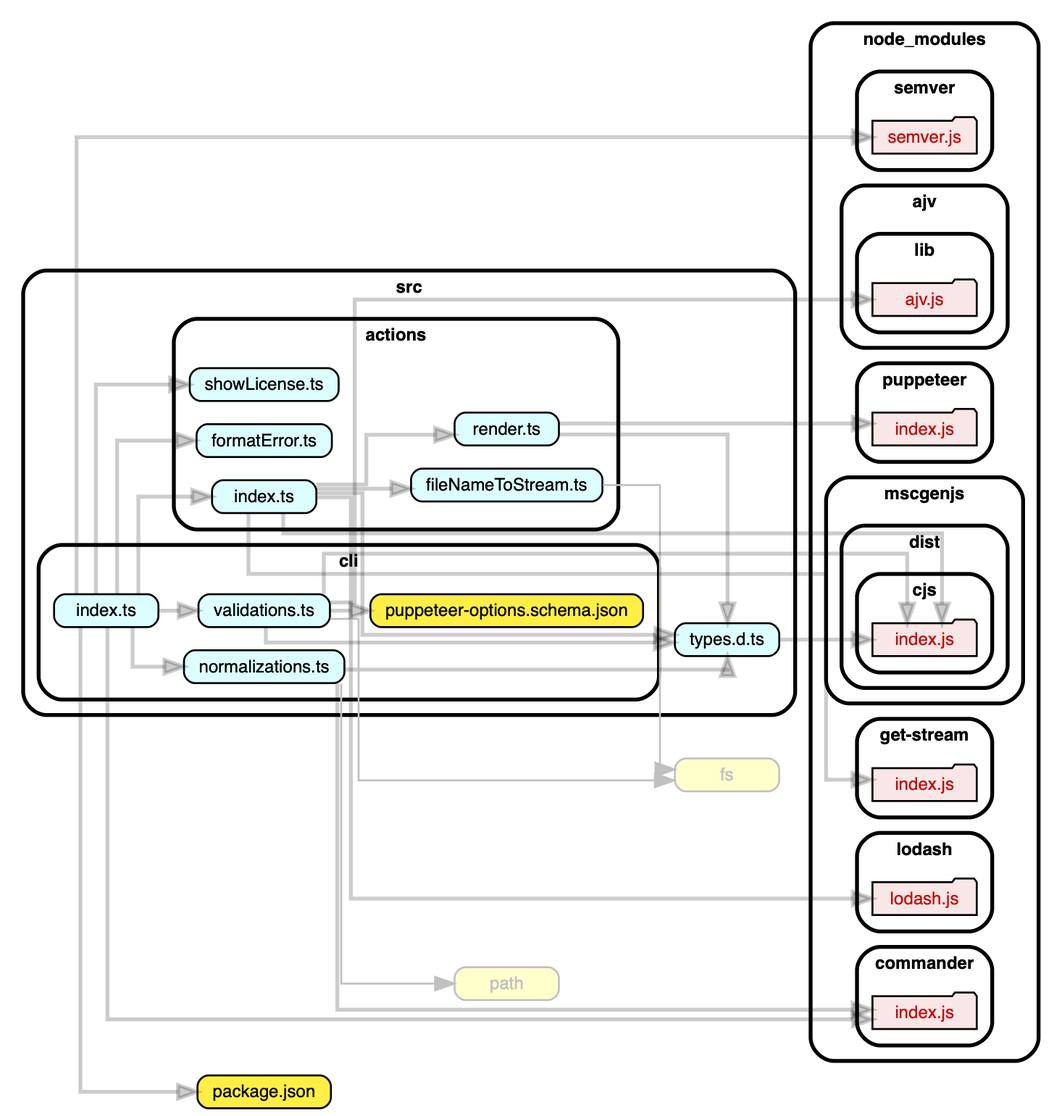
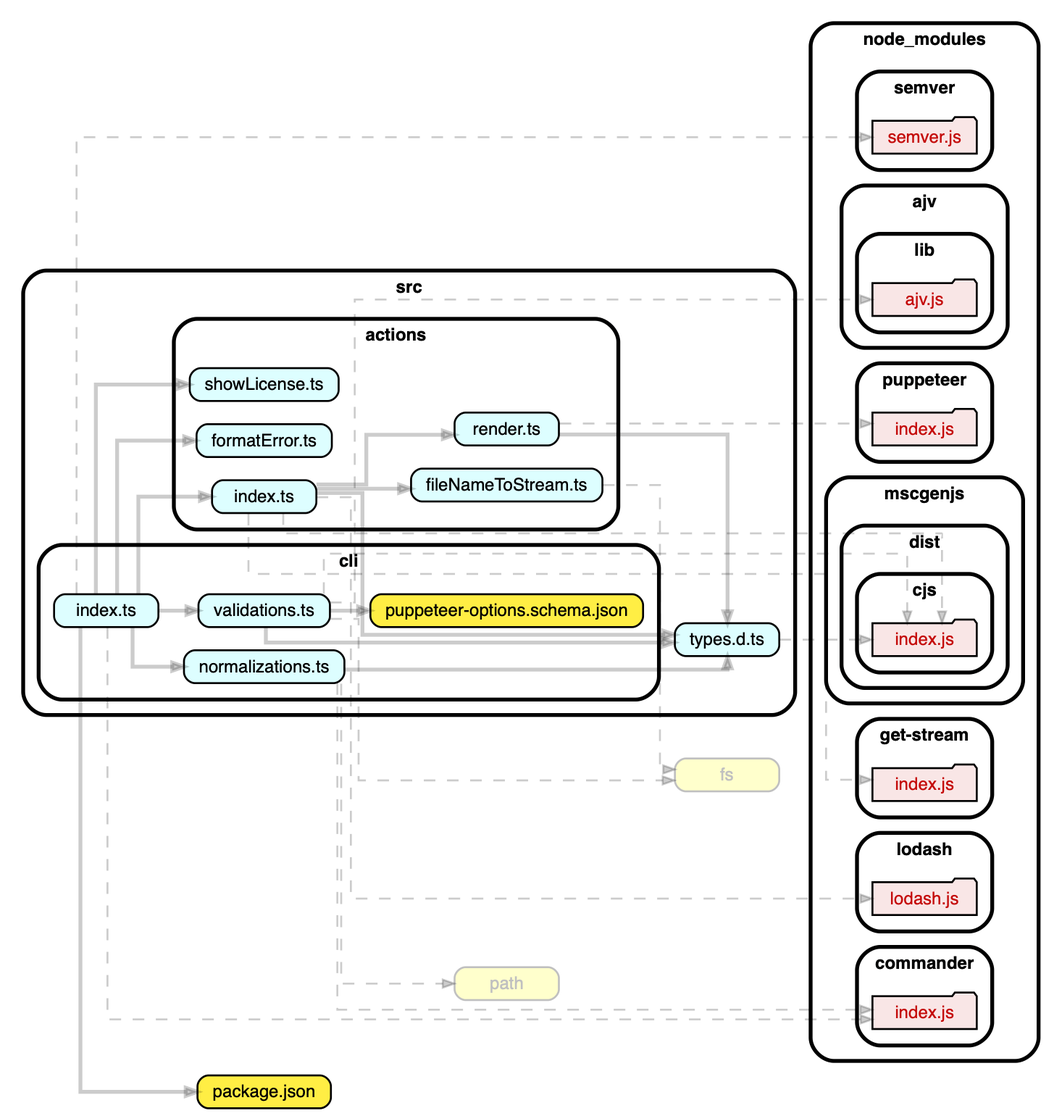
3.0.8

diff --git a/docs/dependencygraph.html b/docs/dependencygraph.html
@@ -47,6 +47,16 @@
 <path fill="#ffffff" stroke="black" stroke-width="2" d="M427.63,-24.5C427.63,-24.5 521.63,-24.5 521.63,-24.5 527.63,-24.5 533.63,-30.5 533.63,-36.5 533.63,-36.5 533.63,-549.5 533.63,-549.5 533.63,-555.5 527.63,-561.5 521.63,-561.5 521.63,-561.5 427.63,-561.5 427.63,-561.5 421.63,-561.5 415.63,-555.5 415.63,-549.5 415.63,-549.5 415.63,-36.5 415.63,-36.5 415.63,-30.5 421.63,-24.5 427.63,-24.5"/>
 <text text-anchor="middle" x="474.63" y="-550.3" font-family="Helvetica,sans-Serif" font-weight="bold" font-size="9.00">node_modules</text>
 </g>
+<g id="clust10" class="cluster">
+<title>cluster_node_modules/puppeteer</title>
+<path fill="#ffffff" stroke="black" stroke-width="2" d="M451.63,-334.5C451.63,-334.5 497.63,-334.5 497.63,-334.5 503.63,-334.5 509.63,-340.5 509.63,-346.5 509.63,-346.5 509.63,-373.5 509.63,-373.5 509.63,-379.5 503.63,-385.5 497.63,-385.5 497.63,-385.5 451.63,-385.5 451.63,-385.5 445.63,-385.5 439.63,-379.5 439.63,-373.5 439.63,-373.5 439.63,-346.5 439.63,-346.5 439.63,-340.5 445.63,-334.5 451.63,-334.5"/>
+<text text-anchor="middle" x="474.63" y="-374.3" font-family="Helvetica,sans-Serif" font-weight="bold" font-size="9.00">puppeteer</text>
+</g>
+<g id="clust11" class="cluster">
+<title>cluster_node_modules/semver</title>
+<path fill="#ffffff" stroke="black" stroke-width="2" d="M451.62,-485.5C451.62,-485.5 497.63,-485.5 497.63,-485.5 503.63,-485.5 509.63,-491.5 509.63,-497.5 509.63,-497.5 509.63,-524.5 509.63,-524.5 509.63,-530.5 503.63,-536.5 497.63,-536.5 497.63,-536.5 451.62,-536.5 451.62,-536.5 445.62,-536.5 439.62,-530.5 439.62,-524.5 439.62,-524.5 439.62,-497.5 439.62,-497.5 439.62,-491.5 445.62,-485.5 451.62,-485.5"/>
+<text text-anchor="middle" x="474.63" y="-525.3" font-family="Helvetica,sans-Serif" font-weight="bold" font-size="9.00">semver</text>
+</g>
 <g id="clust2" class="cluster">
 <title>cluster_node_modules/ajv</title>
 <path fill="#ffffff" stroke="black" stroke-width="2" d="M443.63,-393.5C443.63,-393.5 505.63,-393.5 505.63,-393.5 511.63,-393.5 517.63,-399.5 517.63,-405.5 517.63,-405.5 517.63,-465.5 517.63,-465.5 517.63,-471.5 511.63,-477.5 505.63,-477.5 505.63,-477.5 443.63,-477.5 443.63,-477.5 437.63,-477.5 431.63,-471.5 431.63,-465.5 431.63,-465.5 431.63,-405.5 431.63,-405.5 431.63,-399.5 437.63,-393.5 443.63,-393.5"/>
@@ -86,16 +96,6 @@
 <title>cluster_node_modules/mscgenjs/dist/cjs</title>
 <path fill="#ffffff" stroke="black" stroke-width="2" d="M451.63,-225.5C451.63,-225.5 497.63,-225.5 497.63,-225.5 503.63,-225.5 509.63,-231.5 509.63,-237.5 509.63,-237.5 509.63,-264.5 509.63,-264.5 509.63,-270.5 503.63,-276.5 497.63,-276.5 497.63,-276.5 451.63,-276.5 451.63,-276.5 445.63,-276.5 439.63,-270.5 439.63,-264.5 439.63,-264.5 439.63,-237.5 439.63,-237.5 439.63,-231.5 445.63,-225.5 451.63,-225.5"/>
 <text text-anchor="middle" x="474.63" y="-265.3" font-family="Helvetica,sans-Serif" font-weight="bold" font-size="9.00">cjs</text>
-</g>
-<g id="clust10" class="cluster">
-<title>cluster_node_modules/puppeteer</title>
-<path fill="#ffffff" stroke="black" stroke-width="2" d="M451.63,-334.5C451.63,-334.5 497.63,-334.5 497.63,-334.5 503.63,-334.5 509.63,-340.5 509.63,-346.5 509.63,-346.5 509.63,-373.5 509.63,-373.5 509.63,-379.5 503.63,-385.5 497.63,-385.5 497.63,-385.5 451.63,-385.5 451.63,-385.5 445.63,-385.5 439.63,-379.5 439.63,-373.5 439.63,-373.5 439.63,-346.5 439.63,-346.5 439.63,-340.5 445.63,-334.5 451.63,-334.5"/>
-<text text-anchor="middle" x="474.63" y="-374.3" font-family="Helvetica,sans-Serif" font-weight="bold" font-size="9.00">puppeteer</text>
-</g>
-<g id="clust11" class="cluster">
-<title>cluster_node_modules/semver</title>
-<path fill="#ffffff" stroke="black" stroke-width="2" d="M451.62,-485.5C451.62,-485.5 497.63,-485.5 497.63,-485.5 503.63,-485.5 509.63,-491.5 509.63,-497.5 509.63,-497.5 509.63,-524.5 509.63,-524.5 509.63,-530.5 503.63,-536.5 497.63,-536.5 497.63,-536.5 451.62,-536.5 451.62,-536.5 445.62,-536.5 439.62,-530.5 439.62,-524.5 439.62,-524.5 439.62,-497.5 439.62,-497.5 439.62,-491.5 445.62,-485.5 451.62,-485.5"/>
-<text text-anchor="middle" x="474.63" y="-525.3" font-family="Helvetica,sans-Serif" font-weight="bold" font-size="9.00">semver</text>
 </g>
 <g id="clust12" class="cluster">
 <title>cluster_src</title>
@@ -208,8 +208,8 @@
 <!-- src/actions/fileNameToStream.ts&#45;&gt;fs -->
 <g id="edge1" class="edge">
 <title>src/actions/fileNameToStream.ts&#45;&gt;fs</title>
-<path fill="none" stroke="grey" d="M308.09,-322.5C324.03,-322.5 337.63,-322.5 337.63,-322.5 337.63,-322.5 337.63,-175.33 337.63,-175.33 337.63,-175.33 338.4,-175.33 338.4,-175.33"/>
-<polygon fill="grey" stroke="grey" points="335.34,-178.83 345.34,-175.33 335.34,-171.83 335.34,-178.83"/>
+<path fill="none" stroke="#000000" stroke-dasharray="5,2" stroke-opacity="0.200000" d="M308.09,-322.5C324.03,-322.5 337.63,-322.5 337.63,-322.5 337.63,-322.5 337.63,-175.33 337.63,-175.33 337.63,-175.33 339.34,-175.33 339.34,-175.33"/>
+<polygon fill="#000000" fill-opacity="0.200000" stroke="#000000" stroke-opacity="0.200000" points="339.34,-177.43 345.34,-175.33 339.34,-173.23 339.34,-177.43"/>
 </g>
 <!-- src/actions/formatError.ts -->
 <g id="node12" class="node">
@@ -232,26 +232,26 @@
 <!-- src/actions/index.ts&#45;&gt;node_modules/get&#45;stream/index.js -->
 <g id="edge5" class="edge">
 <title>src/actions/index.ts&#45;&gt;node_modules/get&#45;stream/index.js</title>
-<path fill="none" stroke="#000000" stroke-width="2" stroke-opacity="0.200000" d="M124.63,-307.62C124.63,-295.84 124.63,-276.5 124.63,-276.5 124.63,-276.5 423.63,-276.5 423.63,-276.5 423.63,-276.5 423.63,-170 423.63,-170 423.63,-170 437.33,-170 437.33,-170"/>
-<polygon fill="#000000" fill-opacity="0.200000" stroke="#000000" stroke-width="2" stroke-opacity="0.200000" points="437.33,-173.5 447.33,-170 437.33,-166.5 437.33,-173.5"/>
+<path fill="none" stroke="#000000" stroke-dasharray="5,2" stroke-opacity="0.200000" d="M124.63,-307.62C124.63,-295.84 124.63,-276.5 124.63,-276.5 124.63,-276.5 423.63,-276.5 423.63,-276.5 423.63,-276.5 423.63,-170 423.63,-170 423.63,-170 441.33,-170 441.33,-170"/>
+<polygon fill="#000000" fill-opacity="0.200000" stroke="#000000" stroke-opacity="0.200000" points="441.33,-172.1 447.33,-170 441.33,-167.9 441.33,-172.1"/>
 </g>
 <!-- src/actions/index.ts&#45;&gt;node_modules/lodash/lodash.js -->
 <g id="edge6" class="edge">
 <title>src/actions/index.ts&#45;&gt;node_modules/lodash/lodash.js</title>
-<path fill="none" stroke="#000000" stroke-width="2" stroke-opacity="0.200000" d="M159.9,-316.2C169.34,-316.2 177.63,-316.2 177.63,-316.2 177.63,-316.2 177.63,-108.5 177.63,-108.5 177.63,-108.5 437.48,-108.5 437.48,-108.5"/>
-<polygon fill="#000000" fill-opacity="0.200000" stroke="#000000" stroke-width="2" stroke-opacity="0.200000" points="437.48,-112 447.48,-108.5 437.48,-105 437.48,-112"/>
+<path fill="none" stroke="#000000" stroke-dasharray="5,2" stroke-opacity="0.200000" d="M159.9,-316.2C169.34,-316.2 177.63,-316.2 177.63,-316.2 177.63,-316.2 177.63,-108.5 177.63,-108.5 177.63,-108.5 441.48,-108.5 441.48,-108.5"/>
+<polygon fill="#000000" fill-opacity="0.200000" stroke="#000000" stroke-opacity="0.200000" points="441.48,-110.6 447.48,-108.5 441.48,-106.4 441.48,-110.6"/>
 </g>
 <!-- src/actions/index.ts&#45;&gt;node_modules/mscgenjs/dist/cjs/index.js -->
 <g id="edge7" class="edge">
 <title>src/actions/index.ts&#45;&gt;node_modules/mscgenjs/dist/cjs/index.js</title>
-<path fill="none" stroke="#000000" stroke-width="2" stroke-opacity="0.200000" d="M142.63,-307.89C142.63,-302.86 142.63,-297.5 142.63,-297.5 142.63,-297.5 483.63,-297.5 483.63,-297.5 483.63,-297.5 483.63,-261.09 483.63,-261.09"/>
-<polygon fill="#000000" fill-opacity="0.200000" stroke="#000000" stroke-width="2" stroke-opacity="0.200000" points="487.13,-261.09 483.63,-251.09 480.13,-261.09 487.13,-261.09"/>
+<path fill="none" stroke="#000000" stroke-dasharray="5,2" stroke-opacity="0.200000" d="M142.63,-307.89C142.63,-302.86 142.63,-297.5 142.63,-297.5 142.63,-297.5 483.63,-297.5 483.63,-297.5 483.63,-297.5 483.63,-257.09 483.63,-257.09"/>
+<polygon fill="#000000" fill-opacity="0.200000" stroke="#000000" stroke-opacity="0.200000" points="485.73,-257.09 483.63,-251.09 481.53,-257.09 485.73,-257.09"/>
 </g>
 <!-- src/actions/index.ts&#45;&gt;src/actions/fileNameToStream.ts -->
 <g id="edge3" class="edge">
 <title>src/actions/index.ts&#45;&gt;src/actions/fileNameToStream.ts</title>
-<path fill="none" stroke="#000000" stroke-width="2" stroke-opacity="0.200000" d="M160.01,-320.6C160.01,-320.6 198.61,-320.6 198.61,-320.6"/>
-<polygon fill="#000000" fill-opacity="0.200000" stroke="#000000" stroke-width="2" stroke-opacity="0.200000" points="198.61,-324.1 208.61,-320.6 198.61,-317.1 198.61,-324.1"/>
+<path fill="none" stroke="#000000" stroke-width="2" stroke-opacity="0.200000" d="M160.01,-320.6C160.01,-320.6 202.61,-320.6 202.61,-320.6"/>
+<polygon fill="#000000" fill-opacity="0.200000" stroke="#000000" stroke-width="2" stroke-opacity="0.200000" points="202.61,-322.7 208.61,-320.6 202.61,-318.5 202.61,-322.7"/>
 </g>
 <!-- src/actions/render.ts -->
 <g id="node14" class="node">
@@ -265,8 +265,8 @@
 <!-- src/actions/index.ts&#45;&gt;src/actions/render.ts -->
 <g id="edge4" class="edge">
 <title>src/actions/index.ts&#45;&gt;src/actions/render.ts</title>
-<path fill="none" stroke="#000000" stroke-width="2" stroke-opacity="0.200000" d="M159.82,-322.8C172.82,-322.8 185.63,-322.8 185.63,-322.8 185.63,-322.8 185.63,-348.5 185.63,-348.5 185.63,-348.5 221.25,-348.5 221.25,-348.5"/>
-<polygon fill="#000000" fill-opacity="0.200000" stroke="#000000" stroke-width="2" stroke-opacity="0.200000" points="221.25,-352 231.25,-348.5 221.25,-345 221.25,-352"/>
+<path fill="none" stroke="#000000" stroke-width="2" stroke-opacity="0.200000" d="M159.82,-322.8C172.82,-322.8 185.63,-322.8 185.63,-322.8 185.63,-322.8 185.63,-348.5 185.63,-348.5 185.63,-348.5 225.25,-348.5 225.25,-348.5"/>
+<polygon fill="#000000" fill-opacity="0.200000" stroke="#000000" stroke-width="2" stroke-opacity="0.200000" points="225.25,-350.6 231.25,-348.5 225.25,-346.4 225.25,-350.6"/>
 </g>
 <!-- src/types.d.ts -->
 <g id="node20" class="node">
@@ -280,20 +280,20 @@
 <!-- src/actions/index.ts&#45;&gt;src/types.d.ts -->
 <g id="edge2" class="edge">
 <title>src/actions/index.ts&#45;&gt;src/types.d.ts</title>
-<path fill="none" stroke="#000000" stroke-width="2" stroke-opacity="0.200000" d="M159.98,-318.4C172.07,-318.4 183.63,-318.4 183.63,-318.4 183.63,-318.4 183.63,-245 183.63,-245 183.63,-245 335.32,-245 335.32,-245"/>
-<polygon fill="#000000" fill-opacity="0.200000" stroke="#000000" stroke-width="2" stroke-opacity="0.200000" points="335.32,-248.5 345.32,-245 335.32,-241.5 335.32,-248.5"/>
+<path fill="none" stroke="#000000" stroke-width="2" stroke-opacity="0.200000" d="M159.98,-318.4C172.07,-318.4 183.63,-318.4 183.63,-318.4 183.63,-318.4 183.63,-245 183.63,-245 183.63,-245 339.32,-245 339.32,-245"/>
+<polygon fill="#000000" fill-opacity="0.200000" stroke="#000000" stroke-width="2" stroke-opacity="0.200000" points="339.32,-247.1 345.32,-245 339.32,-242.9 339.32,-247.1"/>
 </g>
 <!-- src/actions/render.ts&#45;&gt;node_modules/puppeteer/index.js -->
 <g id="edge9" class="edge">
 <title>src/actions/render.ts&#45;&gt;node_modules/puppeteer/index.js</title>
-<path fill="none" stroke="#000000" stroke-width="2" stroke-opacity="0.200000" d="M285.71,-354.33C285.71,-354.33 437.45,-354.33 437.45,-354.33"/>
-<polygon fill="#000000" fill-opacity="0.200000" stroke="#000000" stroke-width="2" stroke-opacity="0.200000" points="437.45,-357.83 447.45,-354.33 437.45,-350.83 437.45,-357.83"/>
+<path fill="none" stroke="#000000" stroke-dasharray="5,2" stroke-opacity="0.200000" d="M285.71,-354.33C285.71,-354.33 441.45,-354.33 441.45,-354.33"/>
+<polygon fill="#000000" fill-opacity="0.200000" stroke="#000000" stroke-opacity="0.200000" points="441.45,-356.43 447.45,-354.33 441.45,-352.23 441.45,-356.43"/>
 </g>
 <!-- src/actions/render.ts&#45;&gt;src/types.d.ts -->
 <g id="edge8" class="edge">
 <title>src/actions/render.ts&#45;&gt;src/types.d.ts</title>
-<path fill="none" stroke="#000000" stroke-width="2" stroke-opacity="0.200000" d="M285.41,-348.67C319.21,-348.67 372.63,-348.67 372.63,-348.67 372.63,-348.67 372.63,-261.19 372.63,-261.19"/>
-<polygon fill="#000000" fill-opacity="0.200000" stroke="#000000" stroke-width="2" stroke-opacity="0.200000" points="376.13,-261.19 372.63,-251.19 369.13,-261.19 376.13,-261.19"/>
+<path fill="none" stroke="#000000" stroke-width="2" stroke-opacity="0.200000" d="M285.41,-348.67C319.21,-348.67 372.63,-348.67 372.63,-348.67 372.63,-348.67 372.63,-257.19 372.63,-257.19"/>
+<polygon fill="#000000" fill-opacity="0.200000" stroke="#000000" stroke-width="2" stroke-opacity="0.200000" points="374.73,-257.19 372.63,-251.19 370.53,-257.19 374.73,-257.19"/>
 </g>
 <!-- src/actions/showLicense.ts -->
 <g id="node15" class="node">
@@ -316,38 +316,38 @@
 <!-- src/cli/index.ts&#45;&gt;node_modules/commander/index.js -->
 <g id="edge16" class="edge">
 <title>src/cli/index.ts&#45;&gt;node_modules/commander/index.js</title>
-<path fill="none" stroke="#000000" stroke-width="2" stroke-opacity="0.200000" d="M51.63,-248.95C51.63,-209.38 51.63,-46 51.63,-46 51.63,-46 437.52,-46 437.52,-46"/>
-<polygon fill="#000000" fill-opacity="0.200000" stroke="#000000" stroke-width="2" stroke-opacity="0.200000" points="437.52,-49.5 447.52,-46 437.52,-42.5 437.52,-49.5"/>
+<path fill="none" stroke="#000000" stroke-dasharray="5,2" stroke-opacity="0.200000" d="M51.63,-248.95C51.63,-209.38 51.63,-46 51.63,-46 51.63,-46 441.52,-46 441.52,-46"/>
+<polygon fill="#000000" fill-opacity="0.200000" stroke="#000000" stroke-opacity="0.200000" points="441.52,-48.1 447.52,-46 441.52,-43.9 441.52,-48.1"/>
 </g>
 <!-- src/cli/index.ts&#45;&gt;node_modules/semver/semver.js -->
 <g id="edge17" class="edge">
 <title>src/cli/index.ts&#45;&gt;node_modules/semver/semver.js</title>
-<path fill="none" stroke="#000000" stroke-width="2" stroke-opacity="0.200000" d="M35.63,-266.22C35.63,-309.86 35.63,-502.5 35.63,-502.5 35.63,-502.5 437.5,-502.5 437.5,-502.5"/>
-<polygon fill="#000000" fill-opacity="0.200000" stroke="#000000" stroke-width="2" stroke-opacity="0.200000" points="437.5,-506 447.5,-502.5 437.5,-499 437.5,-506"/>
+<path fill="none" stroke="#000000" stroke-dasharray="5,2" stroke-opacity="0.200000" d="M35.63,-266.22C35.63,-309.86 35.63,-502.5 35.63,-502.5 35.63,-502.5 441.5,-502.5 441.5,-502.5"/>
+<polygon fill="#000000" fill-opacity="0.200000" stroke="#000000" stroke-opacity="0.200000" points="441.5,-504.6 447.5,-502.5 441.5,-500.4 441.5,-504.6"/>
 </g>
 <!-- src/cli/index.ts&#45;&gt;package.json -->
 <g id="edge10" class="edge">
 <title>src/cli/index.ts&#45;&gt;package.json</title>
-<path fill="none" stroke="#000000" stroke-width="2" stroke-opacity="0.200000" d="M37.63,-248.93C37.63,-205.14 37.63,-8.5 37.63,-8.5 37.63,-8.5 88.15,-8.5 88.15,-8.5"/>
-<polygon fill="#000000" fill-opacity="0.200000" stroke="#000000" stroke-width="2" stroke-opacity="0.200000" points="88.15,-12 98.15,-8.5 88.15,-5 88.15,-12"/>
+<path fill="none" stroke="#000000" stroke-width="2" stroke-opacity="0.200000" d="M37.63,-248.93C37.63,-205.14 37.63,-8.5 37.63,-8.5 37.63,-8.5 92.15,-8.5 92.15,-8.5"/>
+<polygon fill="#000000" fill-opacity="0.200000" stroke="#000000" stroke-width="2" stroke-opacity="0.200000" points="92.15,-10.6 98.15,-8.5 92.15,-6.4 92.15,-10.6"/>
 </g>
 <!-- src/cli/index.ts&#45;&gt;src/actions/formatError.ts -->
 <g id="edge12" class="edge">
 <title>src/cli/index.ts&#45;&gt;src/actions/formatError.ts</title>
-<path fill="none" stroke="#000000" stroke-width="2" stroke-opacity="0.200000" d="M56.63,-266.26C56.63,-288.52 56.63,-345.5 56.63,-345.5 56.63,-345.5 87.37,-345.5 87.37,-345.5"/>
-<polygon fill="#000000" fill-opacity="0.200000" stroke="#000000" stroke-width="2" stroke-opacity="0.200000" points="87.37,-349 97.37,-345.5 87.37,-342 87.37,-349"/>
+<path fill="none" stroke="#000000" stroke-width="2" stroke-opacity="0.200000" d="M56.63,-266.26C56.63,-288.52 56.63,-345.5 56.63,-345.5 56.63,-345.5 91.37,-345.5 91.37,-345.5"/>
+<polygon fill="#000000" fill-opacity="0.200000" stroke="#000000" stroke-width="2" stroke-opacity="0.200000" points="91.37,-347.6 97.37,-345.5 91.37,-343.4 91.37,-347.6"/>
 </g>
 <!-- src/cli/index.ts&#45;&gt;src/actions/index.ts -->
 <g id="edge11" class="edge">
 <title>src/cli/index.ts&#45;&gt;src/actions/index.ts</title>
-<path fill="none" stroke="#000000" stroke-width="2" stroke-opacity="0.200000" d="M67.63,-266.21C67.63,-282.62 67.63,-316.5 67.63,-316.5 67.63,-316.5 95.52,-316.5 95.52,-316.5"/>
-<polygon fill="#000000" fill-opacity="0.200000" stroke="#000000" stroke-width="2" stroke-opacity="0.200000" points="95.52,-320 105.52,-316.5 95.52,-313 95.52,-320"/>
+<path fill="none" stroke="#000000" stroke-width="2" stroke-opacity="0.200000" d="M67.63,-266.21C67.63,-282.62 67.63,-316.5 67.63,-316.5 67.63,-316.5 99.52,-316.5 99.52,-316.5"/>
+<polygon fill="#000000" fill-opacity="0.200000" stroke="#000000" stroke-width="2" stroke-opacity="0.200000" points="99.52,-318.6 105.52,-316.5 99.52,-314.4 99.52,-318.6"/>
 </g>
 <!-- src/cli/index.ts&#45;&gt;src/actions/showLicense.ts -->
 <g id="edge13" class="edge">
 <title>src/cli/index.ts&#45;&gt;src/actions/showLicense.ts</title>
-<path fill="none" stroke="#000000" stroke-width="2" stroke-opacity="0.200000" d="M45.63,-266.29C45.63,-293.5 45.63,-374.5 45.63,-374.5 45.63,-374.5 84.04,-374.5 84.04,-374.5"/>
-<polygon fill="#000000" fill-opacity="0.200000" stroke="#000000" stroke-width="2" stroke-opacity="0.200000" points="84.04,-378 94.04,-374.5 84.04,-371 84.04,-378"/>
+<path fill="none" stroke="#000000" stroke-width="2" stroke-opacity="0.200000" d="M45.63,-266.29C45.63,-293.5 45.63,-374.5 45.63,-374.5 45.63,-374.5 88.04,-374.5 88.04,-374.5"/>
+<polygon fill="#000000" fill-opacity="0.200000" stroke="#000000" stroke-width="2" stroke-opacity="0.200000" points="88.04,-376.6 94.04,-374.5 88.04,-372.4 88.04,-376.6"/>
 </g>
 <!-- src/cli/normalizations.ts -->
 <g id="node17" class="node">
@@ -361,8 +361,8 @@
 <!-- src/cli/index.ts&#45;&gt;src/cli/normalizations.ts -->
 <g id="edge14" class="edge">
 <title>src/cli/index.ts&#45;&gt;src/cli/normalizations.ts</title>
-<path fill="none" stroke="#000000" stroke-width="2" stroke-opacity="0.200000" d="M64.63,-248.96C64.63,-240.4 64.63,-228.5 64.63,-228.5 64.63,-228.5 81.17,-228.5 81.17,-228.5"/>
-<polygon fill="#000000" fill-opacity="0.200000" stroke="#000000" stroke-width="2" stroke-opacity="0.200000" points="81.17,-232 91.17,-228.5 81.17,-225 81.17,-232"/>
+<path fill="none" stroke="#000000" stroke-width="2" stroke-opacity="0.200000" d="M64.63,-248.96C64.63,-240.4 64.63,-228.5 64.63,-228.5 64.63,-228.5 85.17,-228.5 85.17,-228.5"/>
+<polygon fill="#000000" fill-opacity="0.200000" stroke="#000000" stroke-width="2" stroke-opacity="0.200000" points="85.17,-230.6 91.17,-228.5 85.17,-226.4 85.17,-230.6"/>
 </g>
 <!-- src/cli/validations.ts -->
 <g id="node19" class="node">
@@ -376,26 +376,26 @@
 <!-- src/cli/index.ts&#45;&gt;src/cli/validations.ts -->
 <g id="edge15" class="edge">
 <title>src/cli/index.ts&#45;&gt;src/cli/validations.ts</title>
-<path fill="none" stroke="#000000" stroke-width="2" stroke-opacity="0.200000" d="M78.23,-257.5C78.23,-257.5 88.53,-257.5 88.53,-257.5"/>
-<polygon fill="#000000" fill-opacity="0.200000" stroke="#000000" stroke-width="2" stroke-opacity="0.200000" points="88.53,-261 98.53,-257.5 88.53,-254 88.53,-261"/>
+<path fill="none" stroke="#000000" stroke-width="2" stroke-opacity="0.200000" d="M78.23,-257.5C78.23,-257.5 92.53,-257.5 92.53,-257.5"/>
+<polygon fill="#000000" fill-opacity="0.200000" stroke="#000000" stroke-width="2" stroke-opacity="0.200000" points="92.53,-259.6 98.53,-257.5 92.53,-255.4 92.53,-259.6"/>
 </g>
 <!-- src/cli/normalizations.ts&#45;&gt;node_modules/commander/index.js -->
 <g id="edge19" class="edge">
 <title>src/cli/normalizations.ts&#45;&gt;node_modules/commander/index.js</title>
-<path fill="none" stroke="#000000" stroke-width="2" stroke-opacity="0.200000" d="M170.63,-219.94C170.63,-184.48 170.63,-51 170.63,-51 170.63,-51 437.38,-51 437.38,-51"/>
-<polygon fill="#000000" fill-opacity="0.200000" stroke="#000000" stroke-width="2" stroke-opacity="0.200000" points="437.38,-54.5 447.38,-51 437.38,-47.5 437.38,-54.5"/>
+<path fill="none" stroke="#000000" stroke-dasharray="5,2" stroke-opacity="0.200000" d="M170.63,-219.94C170.63,-184.48 170.63,-51 170.63,-51 170.63,-51 441.38,-51 441.38,-51"/>
+<polygon fill="#000000" fill-opacity="0.200000" stroke="#000000" stroke-opacity="0.200000" points="441.38,-53.1 447.38,-51 441.38,-48.9 441.38,-53.1"/>
 </g>
 <!-- src/cli/normalizations.ts&#45;&gt;path -->
 <g id="edge20" class="edge">
 <title>src/cli/normalizations.ts&#45;&gt;path</title>
-<path fill="none" stroke="grey" d="M172.63,-219.68C172.63,-185.62 172.63,-64.5 172.63,-64.5 172.63,-64.5 221.2,-64.5 221.2,-64.5"/>
-<polygon fill="grey" stroke="grey" points="221.2,-68 231.2,-64.5 221.2,-61 221.2,-68"/>
+<path fill="none" stroke="#000000" stroke-dasharray="5,2" stroke-opacity="0.200000" d="M172.63,-219.68C172.63,-185.62 172.63,-64.5 172.63,-64.5 172.63,-64.5 225.2,-64.5 225.2,-64.5"/>
+<polygon fill="#000000" fill-opacity="0.200000" stroke="#000000" stroke-opacity="0.200000" points="225.2,-66.6 231.2,-64.5 225.2,-62.4 225.2,-66.6"/>
 </g>
 <!-- src/cli/normalizations.ts&#45;&gt;src/types.d.ts -->
 <g id="edge18" class="edge">
 <title>src/cli/normalizations.ts&#45;&gt;src/types.d.ts</title>
 <path fill="none" stroke="#000000" stroke-width="2" stroke-opacity="0.200000" d="M174.55,-227C243.27,-227 372.63,-227 372.63,-227 372.63,-227 372.63,-227.67 372.63,-227.67"/>
-<polygon fill="#000000" fill-opacity="0.200000" stroke="#000000" stroke-width="2" stroke-opacity="0.200000" points="369.13,-223.66 372.63,-233.66 376.13,-223.66 369.13,-223.66"/>
+<polygon fill="#000000" fill-opacity="0.200000" stroke="#000000" stroke-width="2" stroke-opacity="0.200000" points="370.53,-227.66 372.63,-233.66 374.73,-227.66 370.53,-227.66"/>
 </g>
 <!-- src/cli/puppeteer&#45;options.schema.json -->
 <g id="node18" class="node">
@@ -409,38 +409,38 @@
 <!-- src/cli/validations.ts&#45;&gt;fs -->
 <g id="edge24" class="edge">
 <title>src/cli/validations.ts&#45;&gt;fs</title>
-<path fill="none" stroke="grey" d="M166.97,-253.25C175.18,-253.25 181.63,-253.25 181.63,-253.25 181.63,-253.25 181.63,-169.67 181.63,-169.67 181.63,-169.67 335.04,-169.67 335.04,-169.67"/>
-<polygon fill="grey" stroke="grey" points="335.04,-173.17 345.04,-169.67 335.04,-166.17 335.04,-173.17"/>
+<path fill="none" stroke="#000000" stroke-dasharray="5,2" stroke-opacity="0.200000" d="M166.97,-253.25C175.18,-253.25 181.63,-253.25 181.63,-253.25 181.63,-253.25 181.63,-169.67 181.63,-169.67 181.63,-169.67 339.04,-169.67 339.04,-169.67"/>
+<polygon fill="#000000" fill-opacity="0.200000" stroke="#000000" stroke-opacity="0.200000" points="339.04,-171.77 345.04,-169.67 339.04,-167.57 339.04,-171.77"/>
 </g>
 <!-- src/cli/validations.ts&#45;&gt;node_modules/ajv/lib/ajv.js -->
 <g id="edge23" class="edge">
 <title>src/cli/validations.ts&#45;&gt;node_modules/ajv/lib/ajv.js</title>
-<path fill="none" stroke="#000000" stroke-width="2" stroke-opacity="0.200000" d="M166.82,-261.75C174.09,-261.75 179.63,-261.75 179.63,-261.75 179.63,-261.75 179.63,-418.5 179.63,-418.5 179.63,-418.5 437.4,-418.5 437.4,-418.5"/>
-<polygon fill="#000000" fill-opacity="0.200000" stroke="#000000" stroke-width="2" stroke-opacity="0.200000" points="437.4,-422 447.4,-418.5 437.4,-415 437.4,-422"/>
+<path fill="none" stroke="#000000" stroke-dasharray="5,2" stroke-opacity="0.200000" d="M166.82,-261.75C174.09,-261.75 179.63,-261.75 179.63,-261.75 179.63,-261.75 179.63,-418.5 179.63,-418.5 179.63,-418.5 441.4,-418.5 441.4,-418.5"/>
+<polygon fill="#000000" fill-opacity="0.200000" stroke="#000000" stroke-opacity="0.200000" points="441.4,-420.6 447.4,-418.5 441.4,-416.4 441.4,-420.6"/>
 </g>
 <!-- src/cli/validations.ts&#45;&gt;node_modules/mscgenjs/dist/cjs/index.js -->
 <g id="edge25" class="edge">
 <title>src/cli/validations.ts&#45;&gt;node_modules/mscgenjs/dist/cjs/index.js</title>
-<path fill="none" stroke="#000000" stroke-width="2" stroke-opacity="0.200000" d="M163.63,-266.19C163.63,-274.89 163.63,-287 163.63,-287 163.63,-287 465.63,-287 465.63,-287 465.63,-287 465.63,-261.08 465.63,-261.08"/>
-<polygon fill="#000000" fill-opacity="0.200000" stroke="#000000" stroke-width="2" stroke-opacity="0.200000" points="469.13,-261.08 465.63,-251.08 462.13,-261.08 469.13,-261.08"/>
+<path fill="none" stroke="#000000" stroke-dasharray="5,2" stroke-opacity="0.200000" d="M163.63,-266.19C163.63,-274.89 163.63,-287 163.63,-287 163.63,-287 465.63,-287 465.63,-287 465.63,-287 465.63,-257.08 465.63,-257.08"/>
+<polygon fill="#000000" fill-opacity="0.200000" stroke="#000000" stroke-opacity="0.200000" points="467.73,-257.08 465.63,-251.08 463.53,-257.08 467.73,-257.08"/>
 </g>
 <!-- src/cli/validations.ts&#45;&gt;src/cli/puppeteer&#45;options.schema.json -->
 <g id="edge22" class="edge">
 <title>src/cli/validations.ts&#45;&gt;src/cli/puppeteer&#45;options.schema.json</title>
-<path fill="none" stroke="#000000" stroke-width="2" stroke-opacity="0.200000" d="M167.07,-257.5C167.07,-257.5 177.38,-257.5 177.38,-257.5"/>
-<polygon fill="#000000" fill-opacity="0.200000" stroke="#000000" stroke-width="2" stroke-opacity="0.200000" points="177.38,-261 187.38,-257.5 177.38,-254 177.38,-261"/>
+<path fill="none" stroke="#000000" stroke-width="2" stroke-opacity="0.200000" d="M167.07,-257.5C167.07,-257.5 181.38,-257.5 181.38,-257.5"/>
+<polygon fill="#000000" fill-opacity="0.200000" stroke="#000000" stroke-width="2" stroke-opacity="0.200000" points="181.38,-259.6 187.38,-257.5 181.38,-255.4 181.38,-259.6"/>
 </g>
 <!-- src/cli/validations.ts&#45;&gt;src/types.d.ts -->
 <g id="edge21" class="edge">
 <title>src/cli/validations.ts&#45;&gt;src/types.d.ts</title>
-<path fill="none" stroke="#000000" stroke-width="2" stroke-opacity="0.200000" d="M133.63,-248.86C133.63,-244.87 133.63,-241 133.63,-241 133.63,-241 334.98,-241 334.98,-241"/>
-<polygon fill="#000000" fill-opacity="0.200000" stroke="#000000" stroke-width="2" stroke-opacity="0.200000" points="334.98,-244.5 344.98,-241 334.98,-237.5 334.98,-244.5"/>
+<path fill="none" stroke="#000000" stroke-width="2" stroke-opacity="0.200000" d="M133.63,-248.86C133.63,-244.87 133.63,-241 133.63,-241 133.63,-241 338.98,-241 338.98,-241"/>
+<polygon fill="#000000" fill-opacity="0.200000" stroke="#000000" stroke-width="2" stroke-opacity="0.200000" points="338.98,-243.1 344.98,-241 338.98,-238.9 338.98,-243.1"/>
 </g>
 <!-- src/types.d.ts&#45;&gt;node_modules/mscgenjs/dist/cjs/index.js -->
 <g id="edge26" class="edge">
 <title>src/types.d.ts&#45;&gt;node_modules/mscgenjs/dist/cjs/index.js</title>
-<path fill="none" stroke="#000000" stroke-width="2" stroke-opacity="0.200000" d="M399.5,-242.5C399.5,-242.5 437.36,-242.5 437.36,-242.5"/>
-<polygon fill="#000000" fill-opacity="0.200000" stroke="#000000" stroke-width="2" stroke-opacity="0.200000" points="437.36,-246 447.36,-242.5 437.36,-239 437.36,-246"/>
+<path fill="none" stroke="#000000" stroke-dasharray="5,2" stroke-opacity="0.200000" d="M399.5,-242.5C399.5,-242.5 441.36,-242.5 441.36,-242.5"/>
+<polygon fill="#000000" fill-opacity="0.200000" stroke="#000000" stroke-opacity="0.200000" points="441.36,-244.6 447.36,-242.5 441.36,-240.4 441.36,-244.6"/>
 </g>
 </g>
 </svg>
